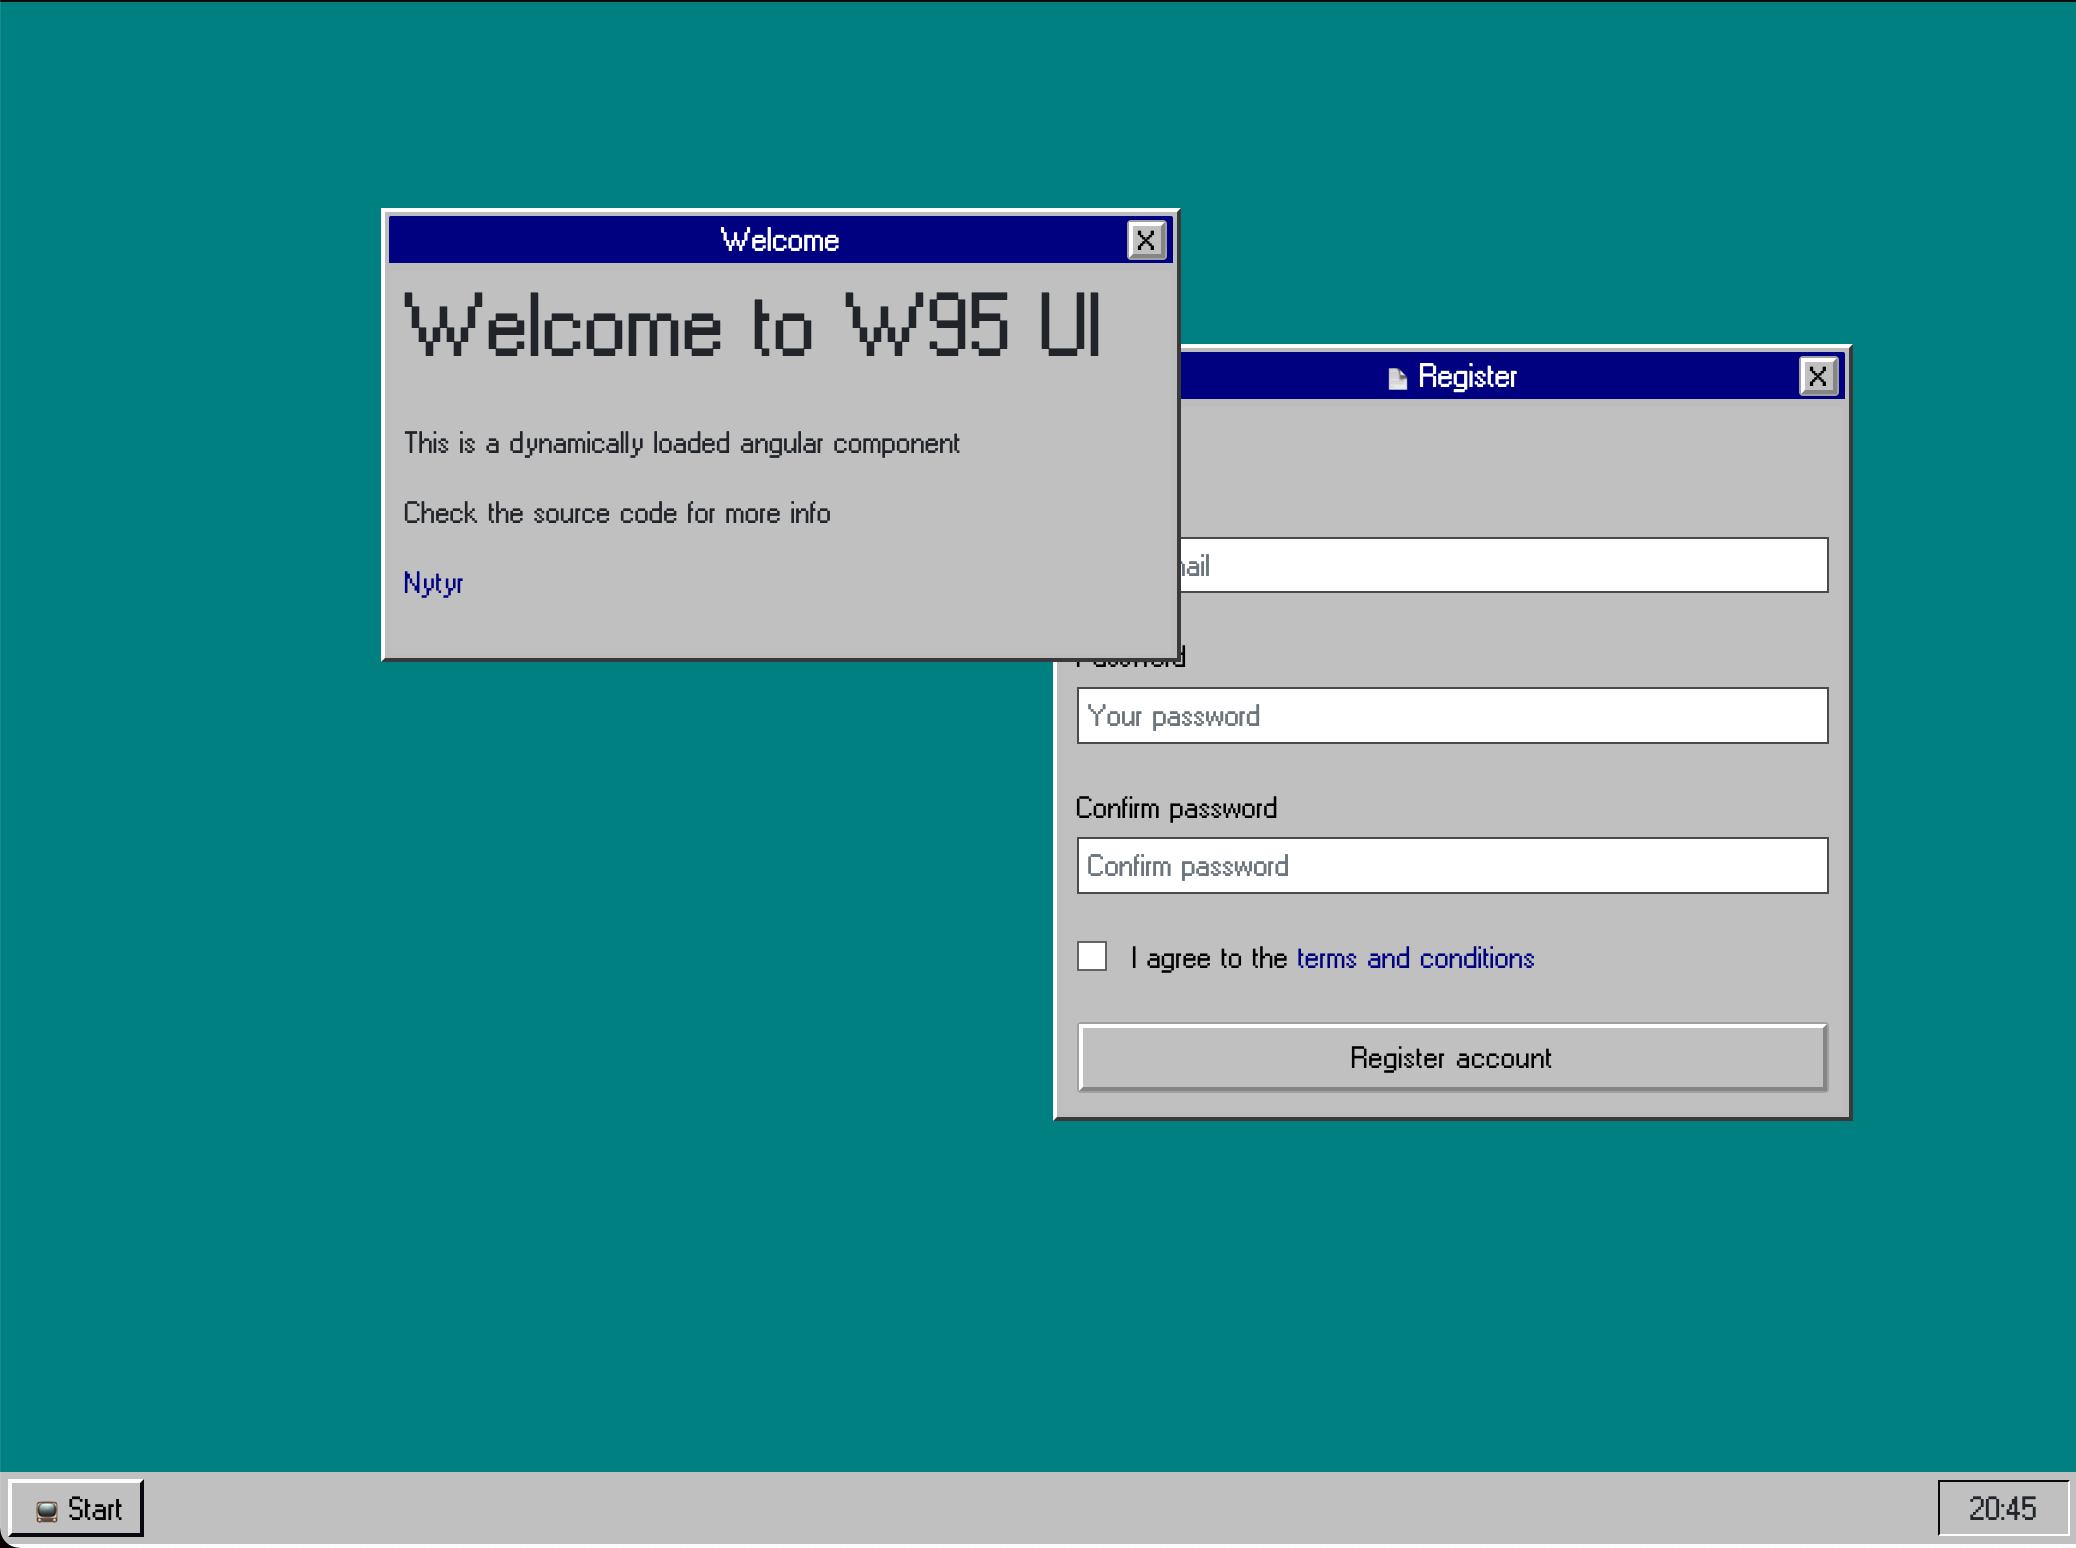
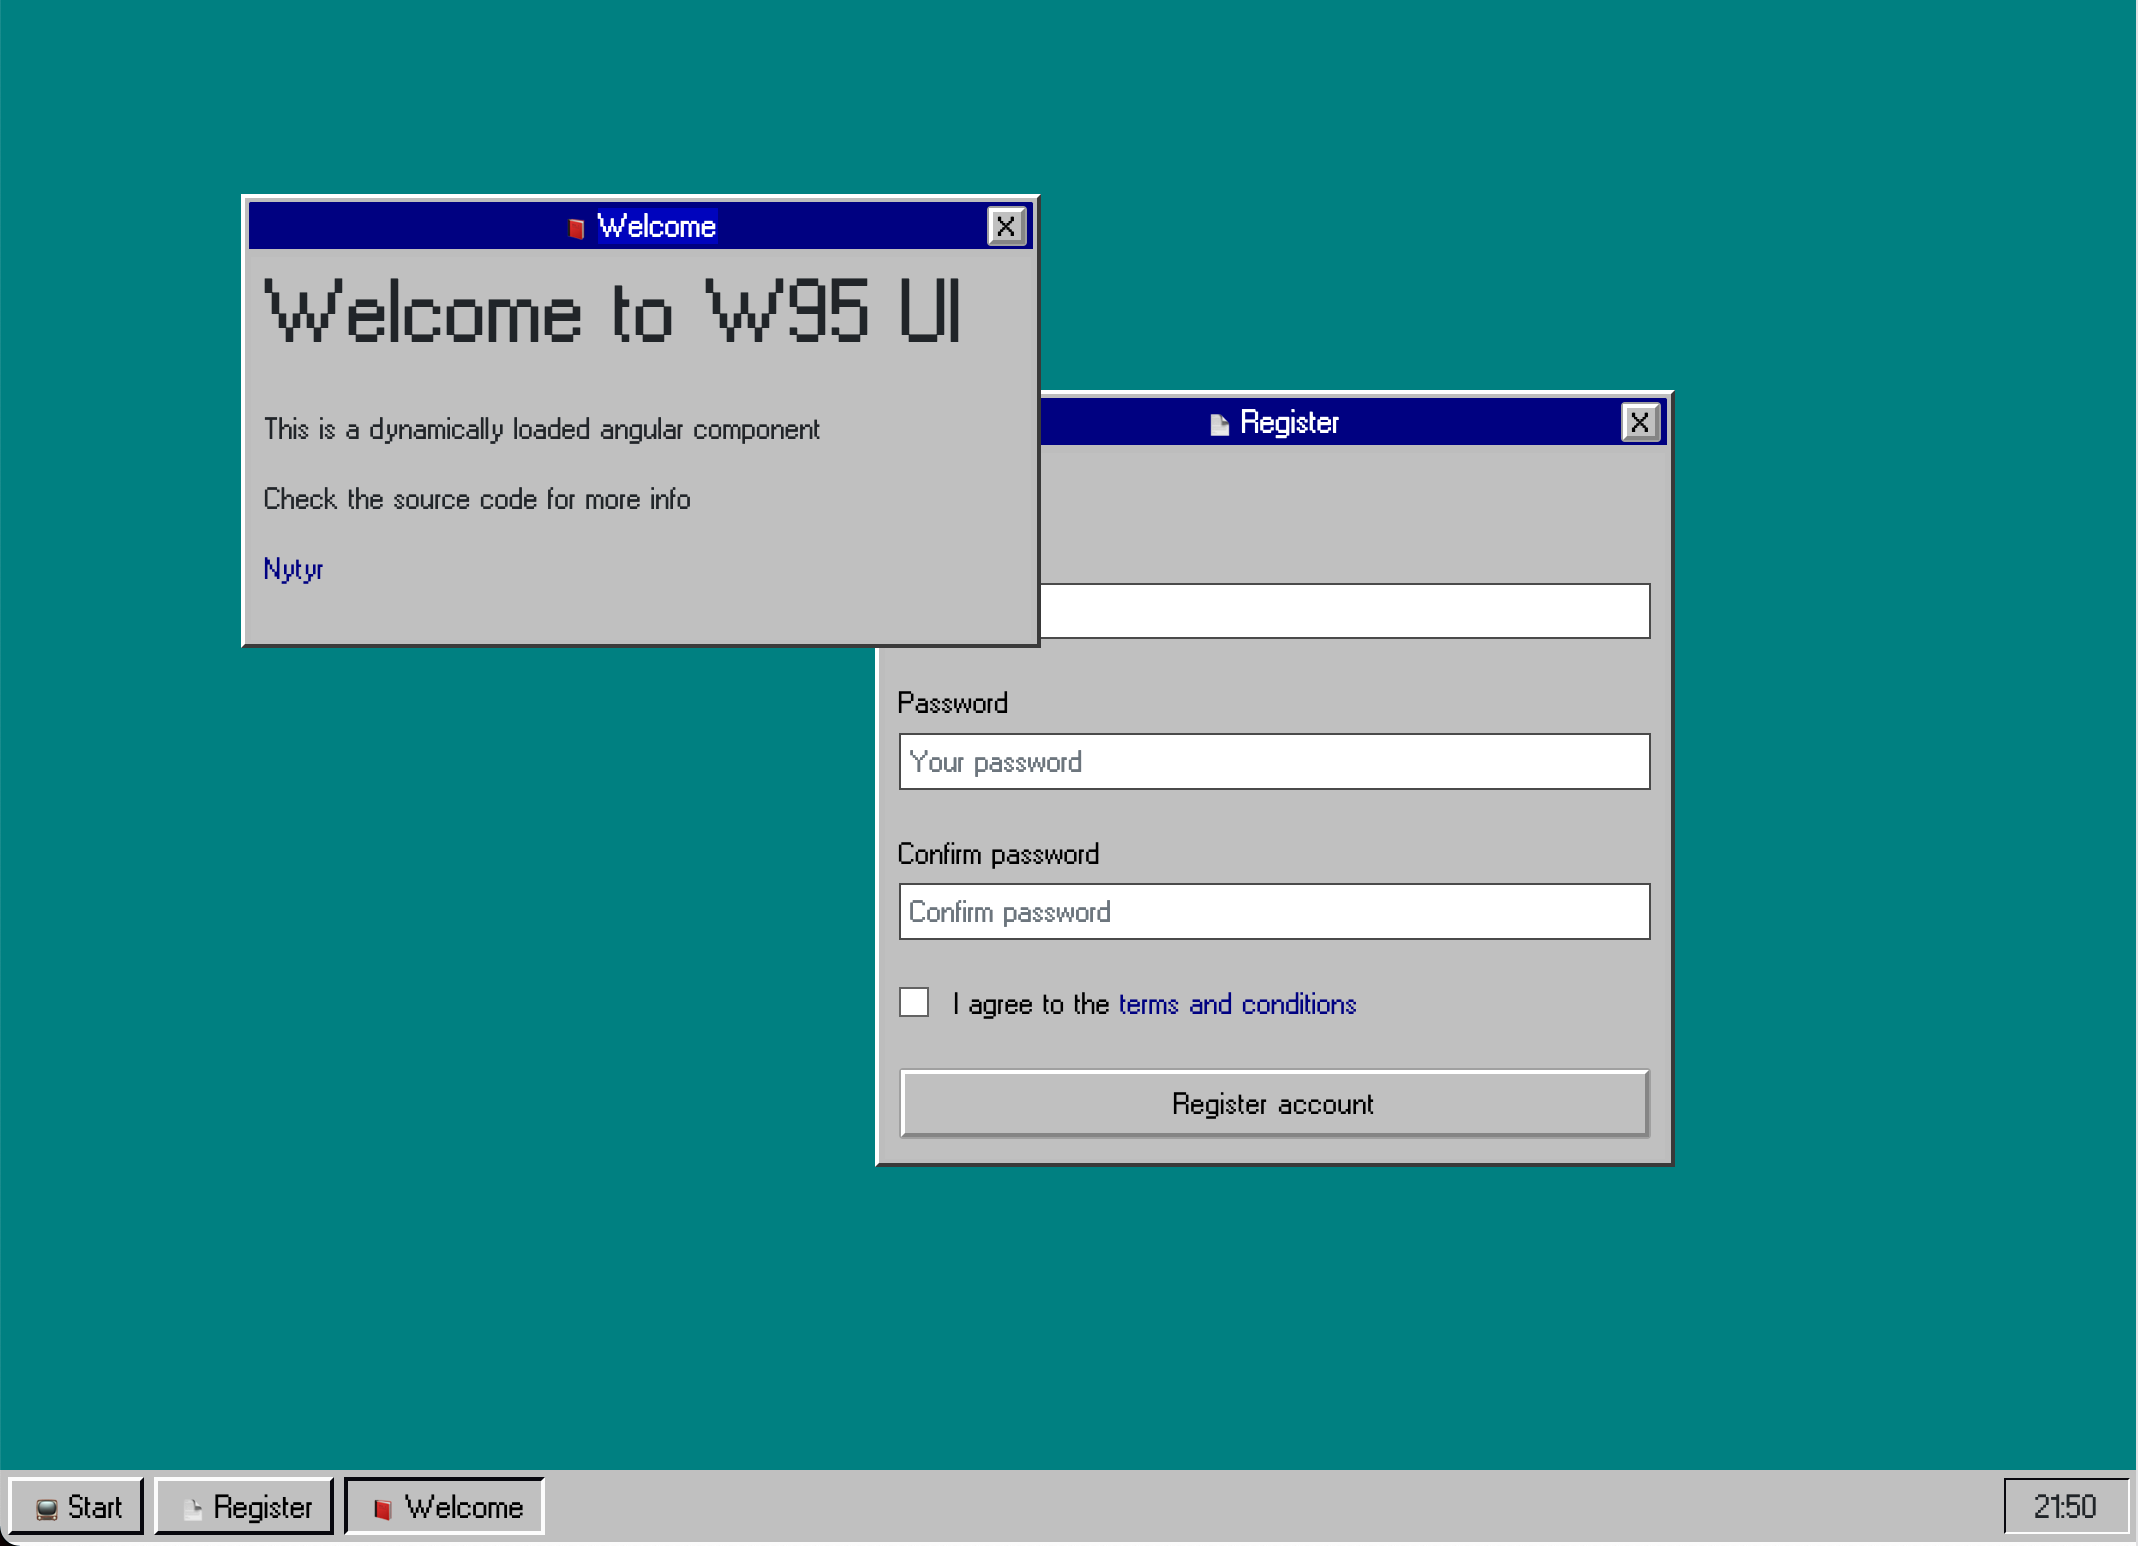
feat: 🎸 Show opened windows in bar

diff --git a/src/app/app.component.ts b/src/app/app.component.ts
@@ -27,6 +27,7 @@ export class AppComponent implements AfterViewInit {
   date = new Date();
   startMenuOpened = false;
   lastZIndex = 10;
+  lastWindowOpened = 0;
   openedWindows = [
     {
       component: WelcomeComponent,
@@ -60,6 +61,7 @@ export class AppComponent implements AfterViewInit {
       title
     }];
     this.lastZIndex += 1;
+    this.lastWindowOpened = this.openedWindows.length - 1;
     this.loadWindowContentWithDelay(this.openedWindows.length - 1, component);
   }
 
@@ -70,6 +72,7 @@ export class AppComponent implements AfterViewInit {
   focusWindow(index: number): void {
     this.openedWindows[index].zIndex = this.lastZIndex + 1;
     this.lastZIndex += 1;
+    this.lastWindowOpened = index;
   }
 
   private loadWindowContentWithDelay(index: number, component: any): void {

diff --git a/src/app/app.component.html b/src/app/app.component.html
@@ -43,6 +43,11 @@
           <span class="nav-link-inner-text">📺 Start</span>
         </div>
       </li>
+      <li class="nav-item" *ngFor="let window of openedWindows; let i = index">
+        <div class="nav-link" role="button" (click)="focusWindow(i)" [ngClass]="{pressed: lastWindowOpened == i}">
+          <span class="nav-link-inner-text">{{window.title}}</span>
+        </div>
+      </li>
     </ul>
     <div class="time text-center">
       <span class="text-uppercase">{{ date | date:"HH:mm"}}</span>

diff --git a/src/app/app.component.css b/src/app/app.component.css
@@ -60,6 +60,11 @@
     font-weight: bold;
 }
 
+.navbar .navbar-nav .nav-item {
+    text-overflow: ellipsis;
+    white-space: nowrap;
+}
+
 .cursor-draggable-bar {
     cursor: grab;
     cursor: -moz-grab;
